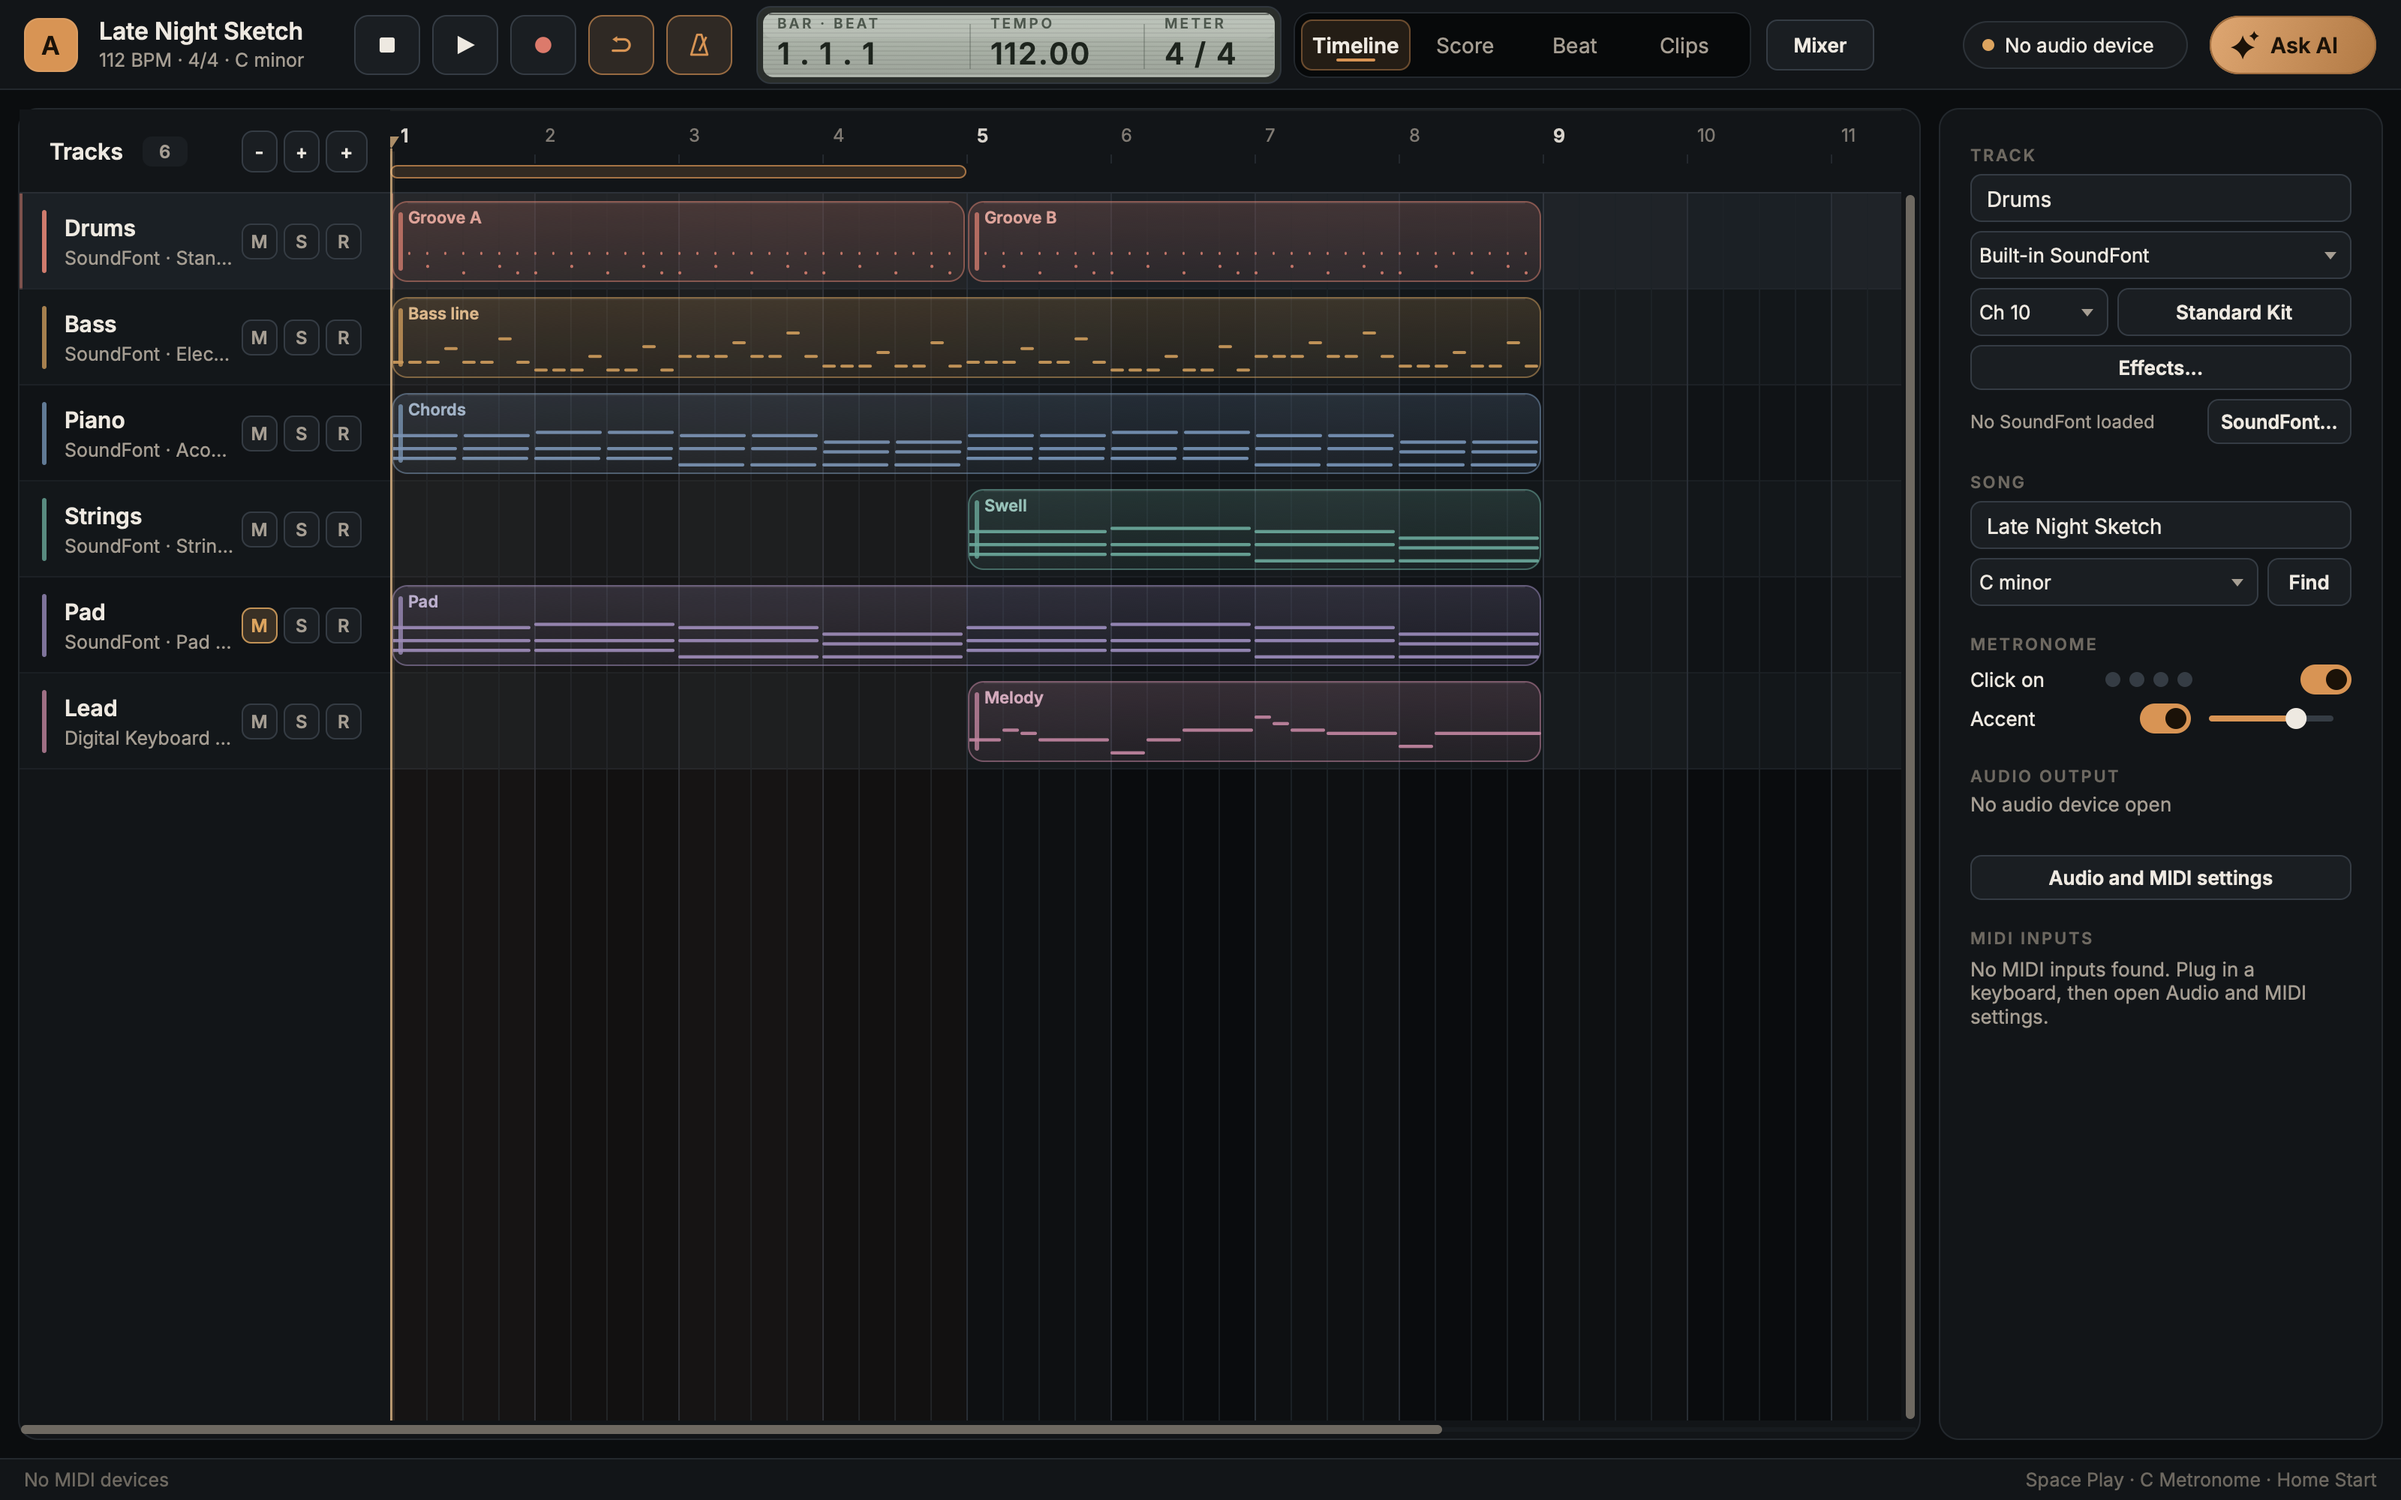
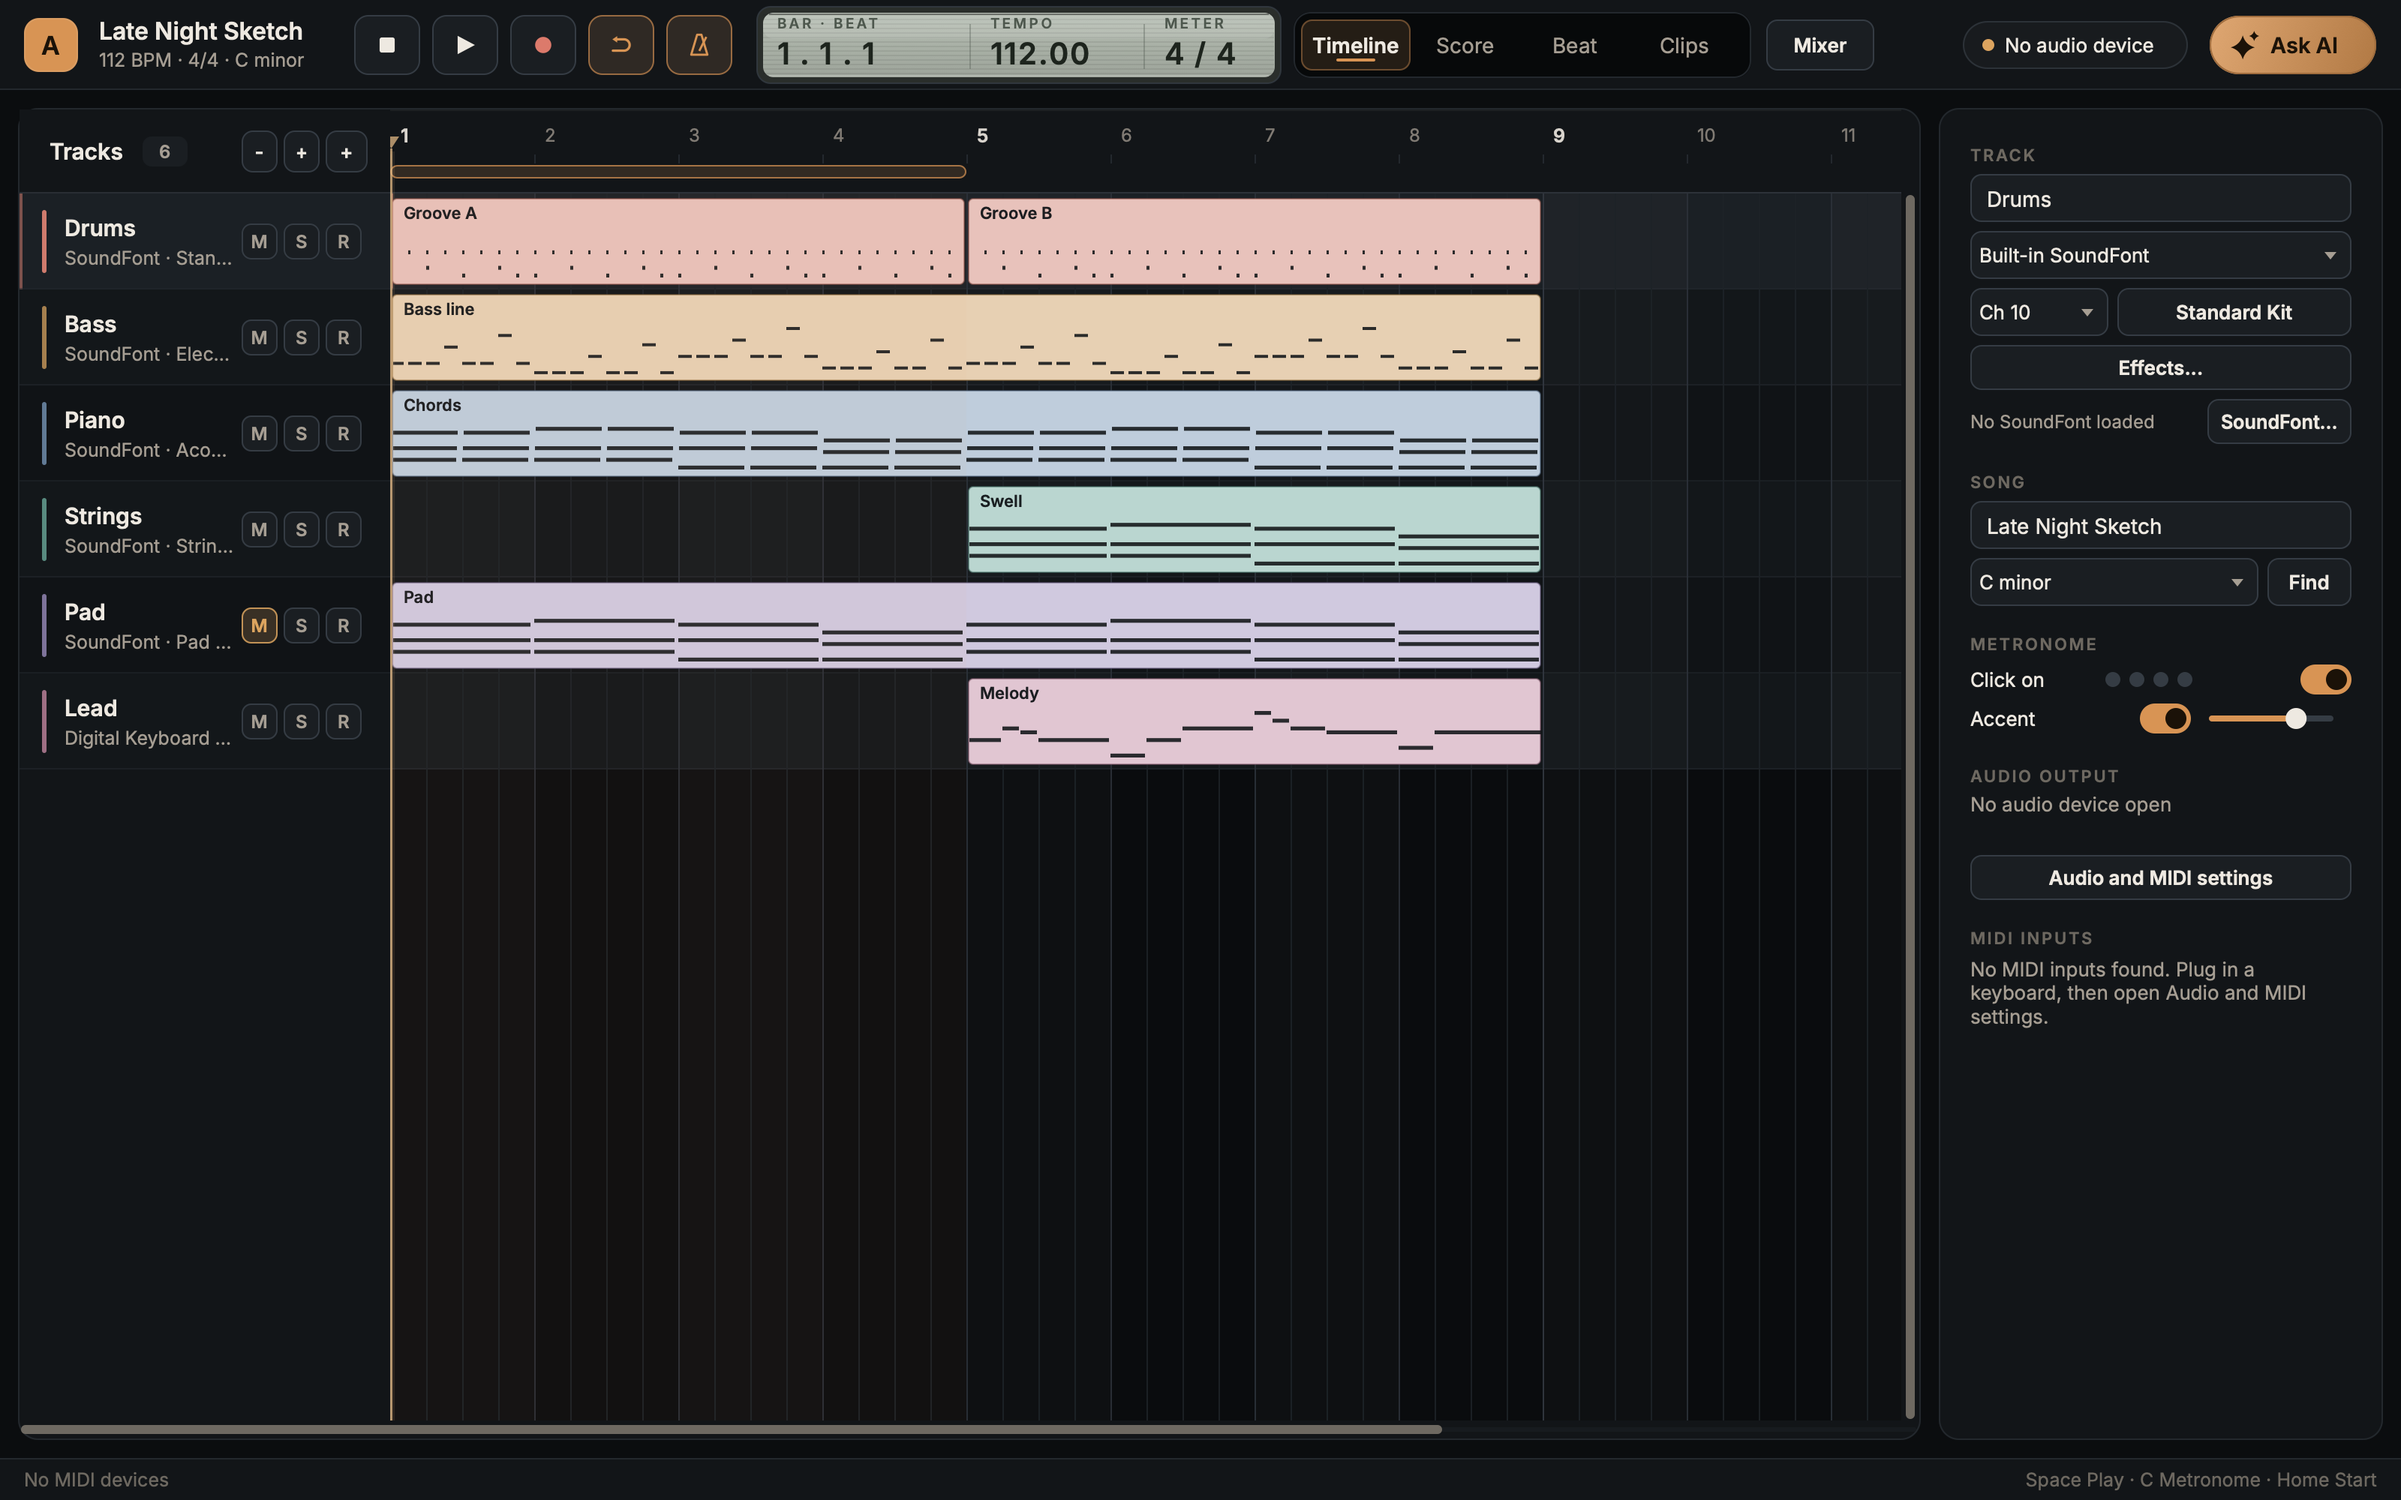
Give timeline clips flat pastel colour with black music

Changed region(s): [[0.1562, 0.124, 0.6562, 0.527]]

diff --git a/src/app/ui/TimelineViews.cpp b/src/app/ui/TimelineViews.cpp
@@ -483,7 +483,7 @@ juce::Rectangle<float> Arrangement::clipBounds (const Clip& c, int trackIndex) c
 {
     const float x1 = geo.tickToX (static_cast<double> (c.start));
     const float x2 = geo.tickToX (static_cast<double> (c.end()));
-    return { x1 + 1.0f, static_cast<float> (geo.trackY (trackIndex) + 5), std::max (4.0f, x2 - x1 - 2.0f), static_cast<float> (geo.trackHeight - 10) };
+    return { x1 + 1.0f, static_cast<float> (geo.trackY (trackIndex) + 3), std::max (4.0f, x2 - x1 - 2.0f), static_cast<float> (geo.trackHeight - 6) };
 }
 
 Arrangement::Hit Arrangement::hitTest (juce::Point<int> p) const
@@ -521,37 +521,29 @@ Arrangement::Hit Arrangement::hitTest (juce::Point<int> p) const
 void Arrangement::drawClip (juce::Graphics& g, const Clip& clip, juce::Rectangle<float> r, juce::Colour c, bool selected, bool ghost) const
 {
     const auto& t = currentTheme();
-    const float radius = 10.0f;
+    const float radius = 3.0f;
     const auto body = r.reduced (0.5f);
-    const float fillTop = ghost ? 0.04f : (selected ? 0.32f : 0.20f);
-    const float fillBottom = ghost ? 0.02f : (selected ? 0.15f : 0.09f);
+    const auto ink = t.isDark ? juce::Colour (0xff111417) : t.colour ("text");
+    auto paper = c.interpolatedWith (juce::Colours::white, selected ? 0.66f : 0.54f);
+    if (ghost)
+        paper = paper.withAlpha (0.28f);
 
     if (selected)
     {
-        g.setColour (c.withAlpha (0.14f));
+        g.setColour (t.colour ("selection").withAlpha (0.16f));
         g.fillRoundedRectangle (body.expanded (2.0f), radius + 2.0f);
     }
-
-    juce::ColourGradient gradient (c.withAlpha (fillTop), body.getX(), body.getY(),
-                                   c.withAlpha (fillBottom), body.getX(), body.getBottom(), false);
-    g.setGradientFill (gradient);
+    g.setColour (paper);
     g.fillRoundedRectangle (body, radius);
-
-    g.setColour (t.colour ("text").withAlpha (ghost ? 0.03f : 0.07f));
-    g.fillRoundedRectangle (body.withHeight (1.5f).reduced (radius, 0.0f), 0.75f);
-    g.setColour (selected ? c.withAlpha (0.95f) : c.withAlpha (0.55f));
-    g.drawRoundedRectangle (body, radius, selected ? 1.6f : 1.0f);
+    g.setColour (selected ? t.colour ("selection") : c.darker (0.45f).withAlpha (0.55f));
+    g.drawRoundedRectangle (body, radius, selected ? 2.0f : 1.0f);
 
     g.saveState();
     g.reduceClipRegion (body.toNearestInt());
 
-    const float accentWidth = std::min (3.0f, body.getWidth() * 0.2f);
-    g.setColour (c.withAlpha (selected ? 1.0f : 0.8f));
-    g.fillRoundedRectangle ({ body.getX() + 4.0f, body.getY() + 7.0f, accentWidth, std::max (0.0f, body.getHeight() - 14.0f) }, 1.5f);
-
-    g.setColour (selected ? t.colour ("text") : (t.isDark ? c.brighter (0.45f) : c.darker (0.25f)));
+    g.setColour (ink.withAlpha (ghost ? 0.2f : 0.95f));
     g.setFont (t.font (11.0f, true));
-    g.drawText (utf8 (clip.name), r.reduced (11.0f, 4.0f).removeFromTop (15.0f), juce::Justification::topLeft, true);
+    g.drawText (utf8 (clip.name), r.reduced (8.0f, 3.0f).removeFromTop (15.0f), juce::Justification::topLeft, true);
 
     if (! clip.notes.empty())
     {
@@ -561,7 +553,7 @@ void Arrangement::drawClip (juce::Graphics& g, const Clip& clip, juce::Rectangle
             lo = std::min<int> (lo, n.pitch);
             hi = std::max<int> (hi, n.pitch);
         }
-        const auto noteArea = r.reduced (6.0f, 5.0f).withTrimmedTop (18.0f);
+        const auto noteArea = r.reduced (5.0f, 5.0f).withTrimmedTop (17.0f);
         const float range = static_cast<float> (std::max (12, hi - lo + 1));
         const float rowH = std::max (2.0f, std::min (4.0f, noteArea.getHeight() / range));
         // A pattern clip shows its first part again and again, with a line at each repeat.
@@ -570,10 +562,10 @@ void Arrangement::drawClip (juce::Graphics& g, const Clip& clip, juce::Rectangle
         {
             if (base > 0)
             {
-                g.setColour (c.withAlpha (0.22f));
-                g.fillRect (geo.tickToX (static_cast<double> (clip.start + base)), r.getY() + 4.0f, 1.0f, r.getHeight() - 8.0f);
+                g.setColour (ink.withAlpha (0.20f));
+                g.fillRect (geo.tickToX (static_cast<double> (clip.start + base)), r.getY() + 3.0f, 1.0f, r.getHeight() - 6.0f);
             }
-            g.setColour (base == 0 ? c.withAlpha (0.92f) : c.withAlpha (0.52f));
+            g.setColour (ink.withAlpha (base == 0 ? 0.88f : 0.55f));
             for (const auto& n : clip.notes)
             {
                 if (n.start >= loop || base + n.start >= clip.length)
@@ -583,7 +575,7 @@ void Arrangement::drawClip (juce::Graphics& g, const Clip& clip, juce::Rectangle
                 if (x2 < 0 || x1 > static_cast<float> (getWidth()))
                     continue;
                 const float y = noteArea.getBottom() - (static_cast<float> (n.pitch - lo) + 1.0f) / range * noteArea.getHeight();
-                g.fillRoundedRectangle (juce::Rectangle<float> (x1, y, std::max (1.5f, x2 - x1 - 1.0f), rowH), 1.0f);
+                g.fillRect (juce::Rectangle<float> (x1, y, std::max (1.5f, x2 - x1 - 1.0f), rowH));
             }
         }
     }
@@ -732,7 +724,7 @@ void Arrangement::paint (juce::Graphics& g)
             const double startTick = audio ? audioStart : (take.empty() ? session.position() : take.front().tick);
             const float x1 = geo.tickToX (audio ? startTick : std::floor (startTick / barTicks) * barTicks);
             const float x2 = geo.tickToX (session.position());
-            const auto r = juce::Rectangle<float> (x1 + 1, static_cast<float> (geo.trackY (index) + 5), std::max (4.0f, x2 - x1), static_cast<float> (geo.trackHeight - 10));
+            const auto r = juce::Rectangle<float> (x1 + 1, static_cast<float> (geo.trackY (index) + 3), std::max (4.0f, x2 - x1), static_cast<float> (geo.trackHeight - 6));
             g.setColour (t.colour ("recording").withAlpha (0.16f));
             g.fillRoundedRectangle (r, 8.0f);
             g.setColour (t.colour ("recording"));
@@ -1647,37 +1639,32 @@ const std::vector<std::pair<float, float>>& Arrangement::peaksFor (const std::st
 void Arrangement::drawAudioClip (juce::Graphics& g, const AudioClip& clip, juce::Rectangle<float> r, juce::Colour c, bool selected, bool ghost)
 {
     const auto& t = currentTheme();
-    const float radius = 10.0f;
+    const float radius = 3.0f;
     const auto body = r.reduced (0.5f);
-    const float fillTop = ghost ? 0.04f : (selected ? 0.32f : 0.20f);
-    const float fillBottom = ghost ? 0.02f : (selected ? 0.15f : 0.09f);
+    const auto ink = t.isDark ? juce::Colour (0xff111417) : t.colour ("text");
+    auto paper = c.interpolatedWith (juce::Colours::white, selected ? 0.66f : 0.54f);
+    if (ghost)
+        paper = paper.withAlpha (0.28f);
 
     if (selected)
     {
-        g.setColour (c.withAlpha (0.14f));
+        g.setColour (t.colour ("selection").withAlpha (0.16f));
         g.fillRoundedRectangle (body.expanded (2.0f), radius + 2.0f);
     }
-    juce::ColourGradient gradient (c.withAlpha (fillTop), body.getX(), body.getY(),
-                                   c.withAlpha (fillBottom), body.getX(), body.getBottom(), false);
-    g.setGradientFill (gradient);
+    g.setColour (paper);
     g.fillRoundedRectangle (body, radius);
-    g.setColour (t.colour ("text").withAlpha (ghost ? 0.03f : 0.07f));
-    g.fillRoundedRectangle (body.withHeight (1.5f).reduced (radius, 0.0f), 0.75f);
-    g.setColour (selected ? c.withAlpha (0.95f) : c.withAlpha (0.55f));
-    g.drawRoundedRectangle (body, radius, selected ? 1.6f : 1.0f);
+    g.setColour (selected ? t.colour ("selection") : c.darker (0.45f).withAlpha (0.55f));
+    g.drawRoundedRectangle (body, radius, selected ? 2.0f : 1.0f);
     if (ghost)
         return;
 
     g.saveState();
     g.reduceClipRegion (body.toNearestInt());
-    const float accentWidth = std::min (3.0f, body.getWidth() * 0.2f);
-    g.setColour (c.withAlpha (0.8f));
-    g.fillRoundedRectangle ({ body.getX() + 4.0f, body.getY() + 7.0f, accentWidth, std::max (0.0f, body.getHeight() - 14.0f) }, 1.5f);
 
     const auto& song = session.song();
     double framesPerPeak = 0.0, rate = 0.0;
     const auto& p = peaksFor (clip.file, framesPerPeak, rate);
-    const auto wave = r.reduced (3.0f, 5.0f).withTrimmedTop (18.0f);
+    const auto wave = r.reduced (2.0f, 4.0f).withTrimmedTop (16.0f);
     const float mid = wave.getCentreY(), half = wave.getHeight() / 2.0f;
     const float gain = std::pow (10.0f, clip.gainDb / 20.0f);
     const double startSeconds = song.tempo.secondsAt (static_cast<double> (clip.start));
@@ -1694,10 +1681,10 @@ void Arrangement::drawAudioClip (juce::Graphics& g, const AudioClip& clip, juce:
     }
     else
     {
-        g.setColour (c.withAlpha (0.18f));
+        g.setColour (ink.withAlpha (0.18f));
         g.fillRect (juce::Rectangle<float> (wave.getX(), mid, wave.getWidth(), 1.0f));
 
-        g.setColour (c.withAlpha (0.78f));
+        g.setColour (ink.withAlpha (0.86f));
         const int x1 = std::max (0, static_cast<int> (std::floor (r.getX()))), x2 = std::min (getWidth(), static_cast<int> (std::ceil (r.getRight())));
         for (int x = x1; x < x2; ++x)
         {
@@ -1727,20 +1714,20 @@ void Arrangement::drawAudioClip (juce::Graphics& g, const AudioClip& clip, juce:
     }
 
     // Fades: a line from the corner.
-    g.setColour (c.brighter (0.5f).withAlpha (0.8f));
+    g.setColour (ink.withAlpha (0.55f));
     if (clip.fadeIn > 0)
         g.drawLine (r.getX(), r.getBottom() - 2.0f, geo.tickToX (static_cast<double> (clip.start + clip.fadeIn)), r.getY() + 2.0f, 1.0f);
     if (clip.fadeOut > 0)
         g.drawLine (geo.tickToX (static_cast<double> (clip.end() - clip.fadeOut)), r.getY() + 2.0f, r.getRight(), r.getBottom() - 2.0f, 1.0f);
 
-    g.setColour (selected ? t.colour ("text") : (t.isDark ? c.brighter (0.45f) : c.darker (0.25f)));
+    g.setColour (ink.withAlpha (0.95f));
     g.setFont (t.font (11.0f, true));
     auto label = utf8 (clip.name);
     if (clip.bpm > 0.0)
         label += dot + juce::String (clip.bpm, 1) + " BPM";
     if (std::abs (clip.gainDb) >= 0.05f)
         label += dot + (clip.gainDb > 0 ? "+" : "") + juce::String (clip.gainDb, 1) + " dB";
-    g.drawText (label, r.reduced (11.0f, 4.0f).removeFromTop (15.0f), juce::Justification::topLeft, true);
+    g.drawText (label, r.reduced (8.0f, 3.0f).removeFromTop (15.0f), juce::Justification::topLeft, true);
     g.restoreState();
 }
 

diff --git a/docs/style-guide.md b/docs/style-guide.md
@@ -9,6 +9,7 @@ The look of Arranger MIDI DAW: a warm charcoal studio with a copper accent, mode
 - **Calm.** Dark warm greys, one accent colour, colour only where it means something (track colours, play, record, activity).
 - **Fast to draw.** Everything is vector. No images, no shadows that need blurring, no animation that waits. Nothing repaints unless it changed, so an idle app uses close to 0% CPU.
 - **One colour per track.** A track keeps its colour in every view: timeline, piano roll, score, beat grid and clip grid.
+- **Music reads first.** Timeline clips are flat pastel blocks with black notes and waveforms. No gloss or heavy shadow competes with the music.
 - **Keyboard first.** Every action has a command and a shortcut. A command palette comes later.
 - **Themes are files.** Colours and sizes live in `resources/themes/*.json`. Change the file, not the code.
 
